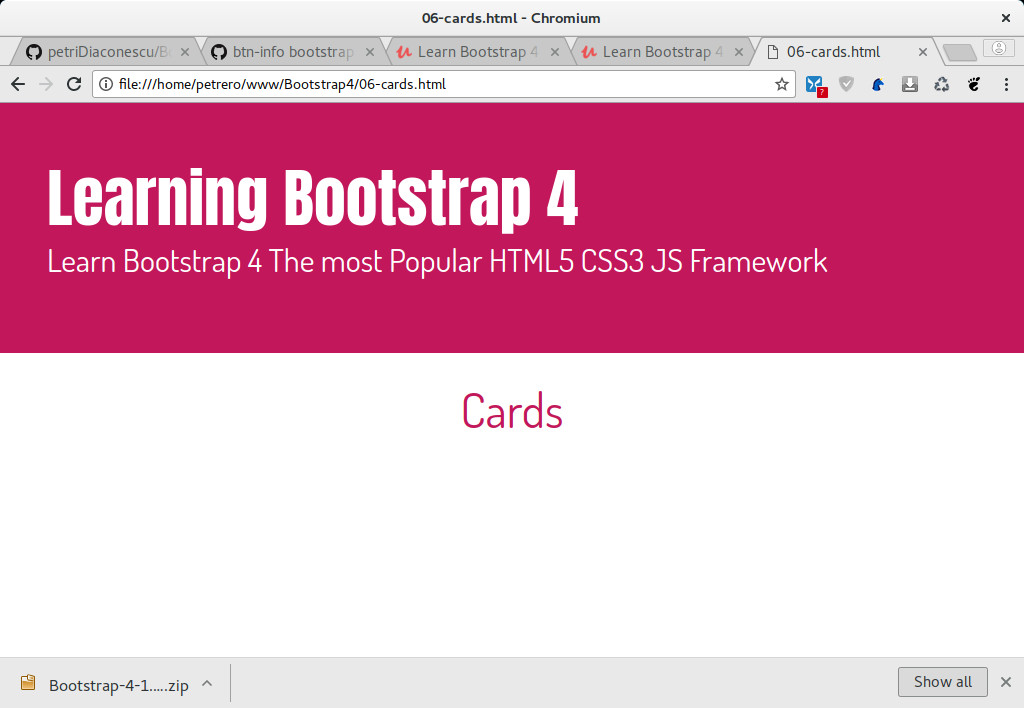
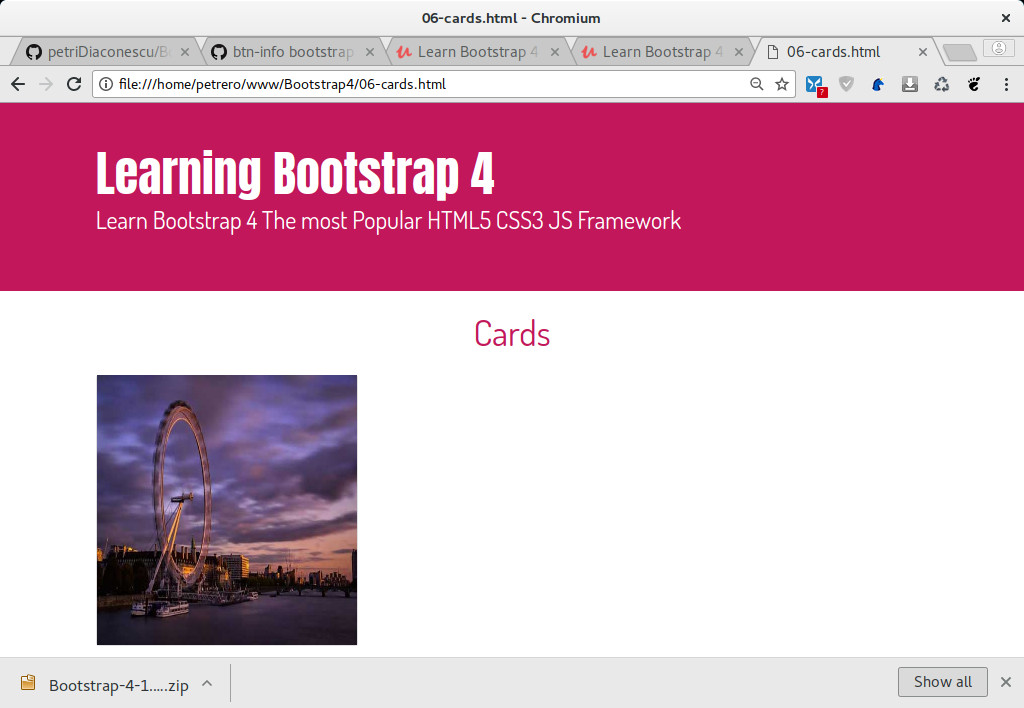
Make image responsive with img-fluid class.

diff --git a/06-cards.html b/06-cards.html
@@ -27,7 +27,7 @@
       <div class="row">
         <div class="col-6 col-md-4">
           <div class="card">
-            <img src="img/card_01.jpg" alt="My Card" />
+            <img src="img/card_01.jpg" alt="My Card" class="img-fluid"/>
           </div>
         </div>
         <div class="col-6 col-md-4">
